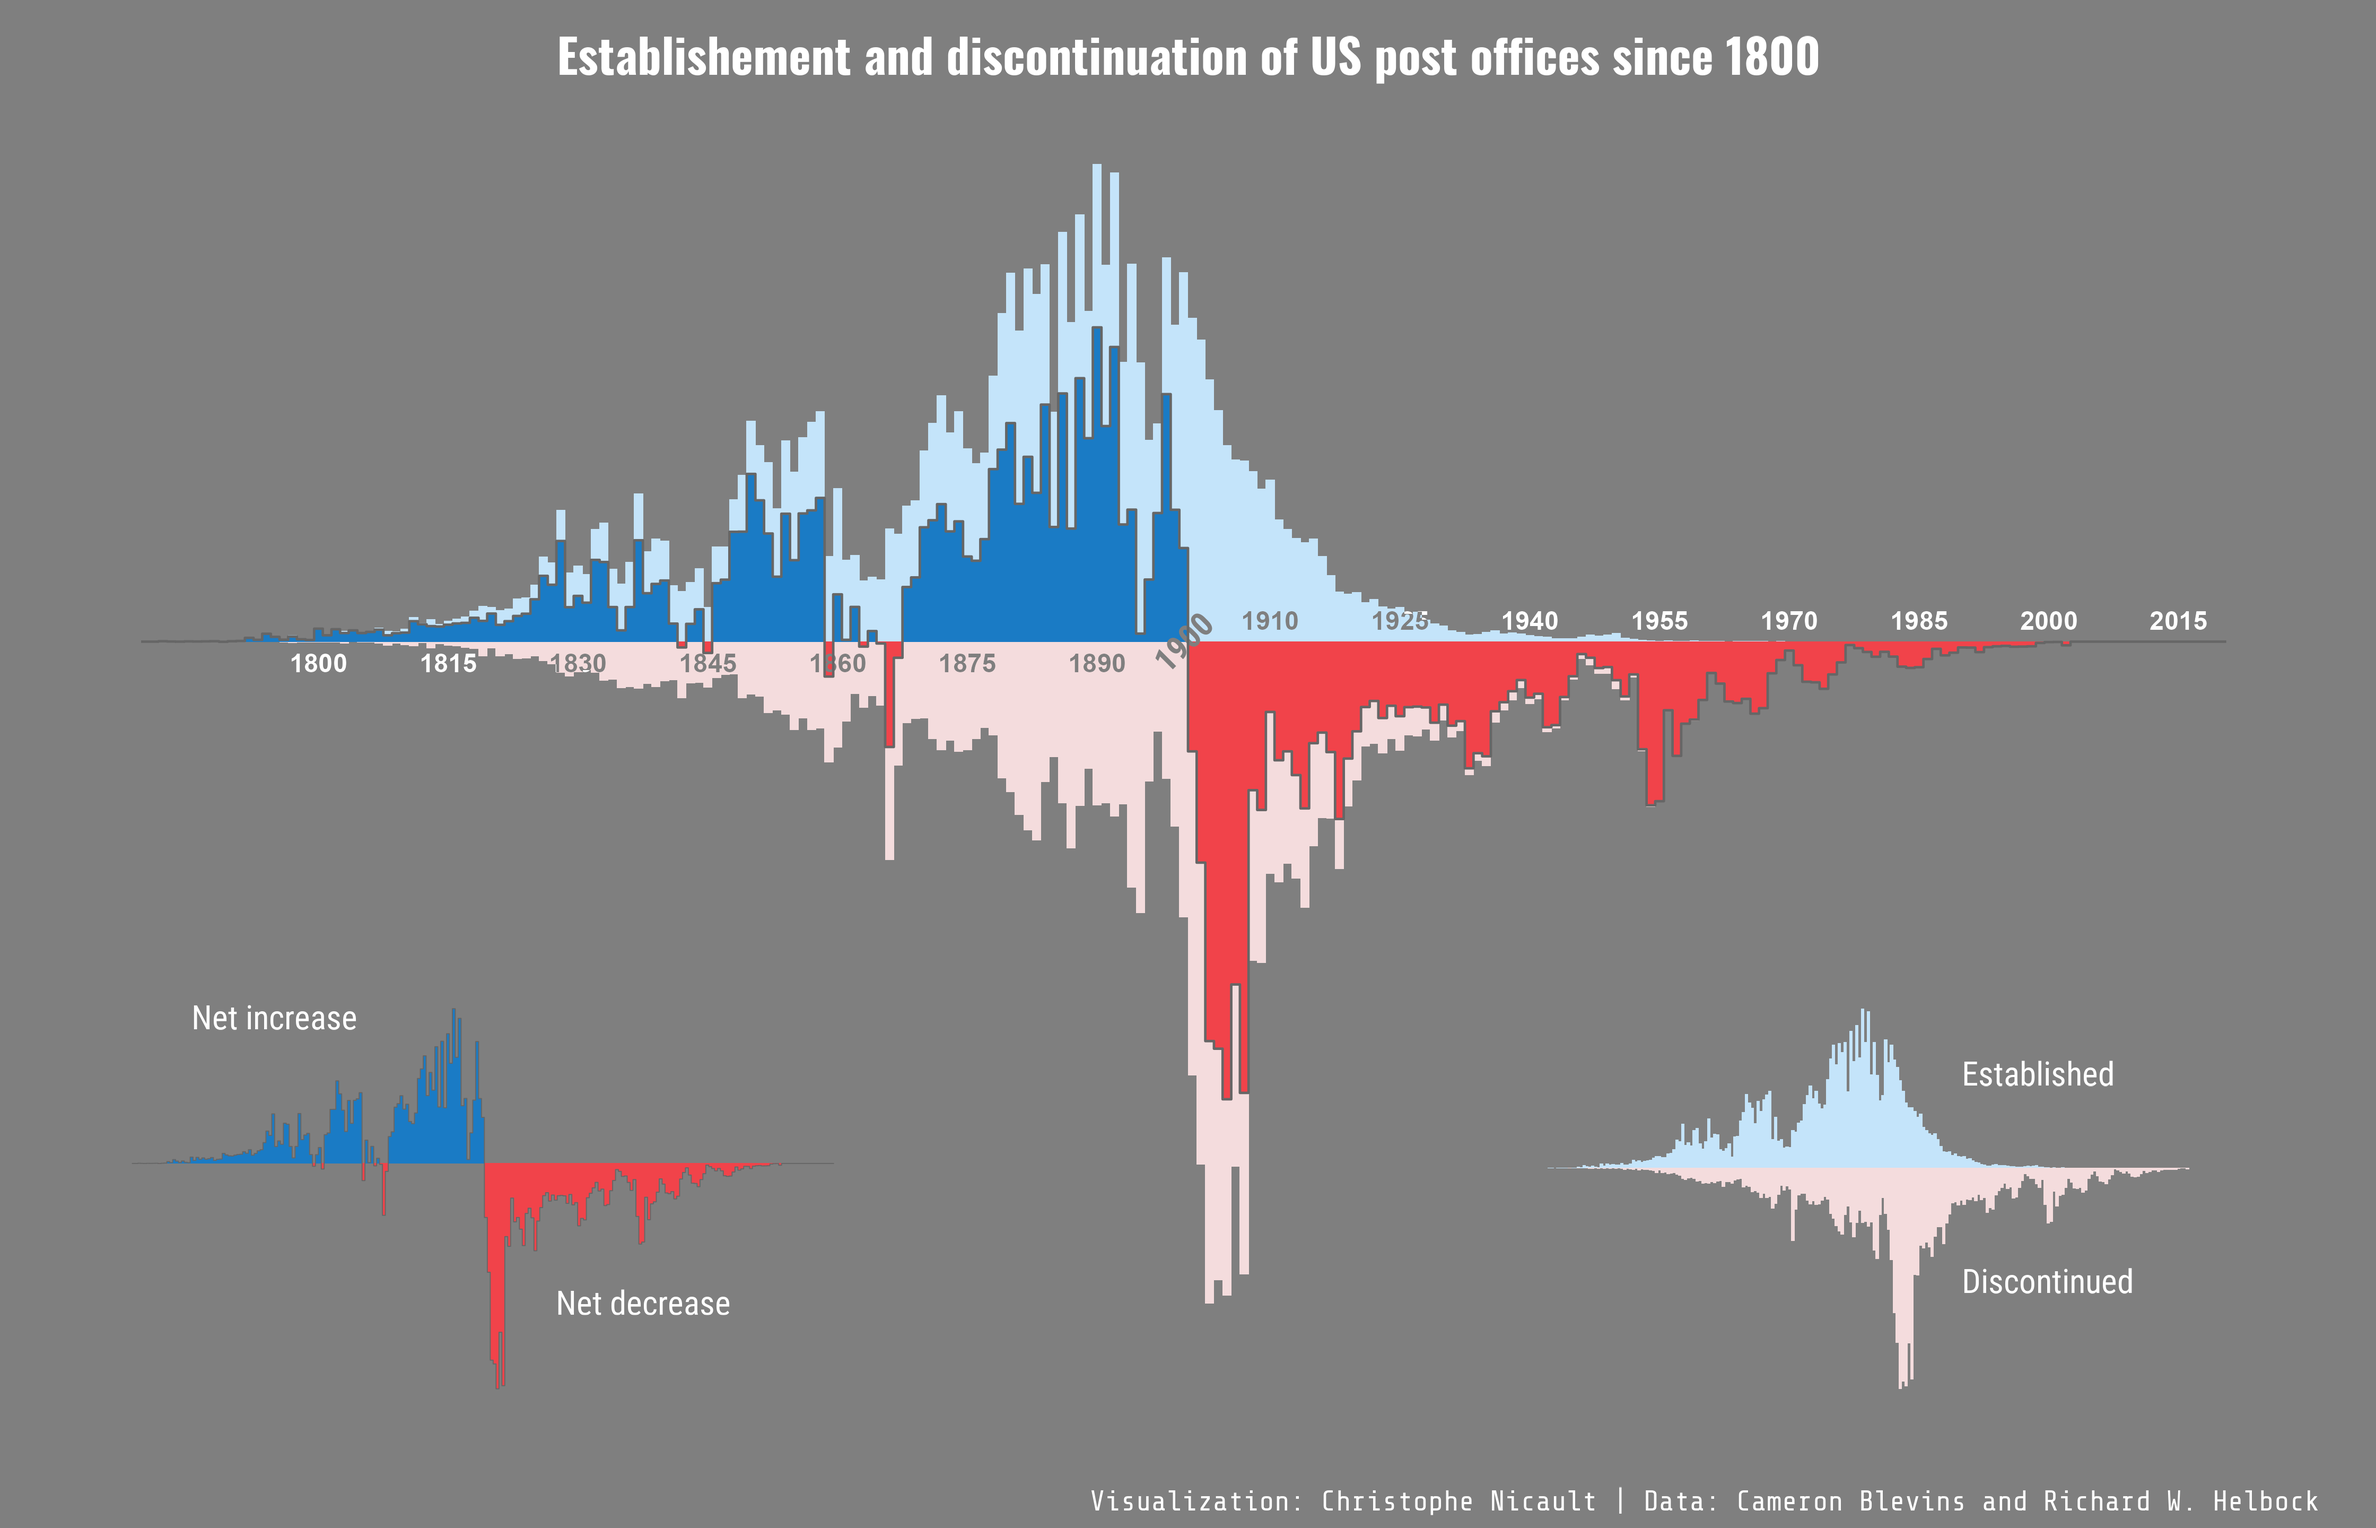
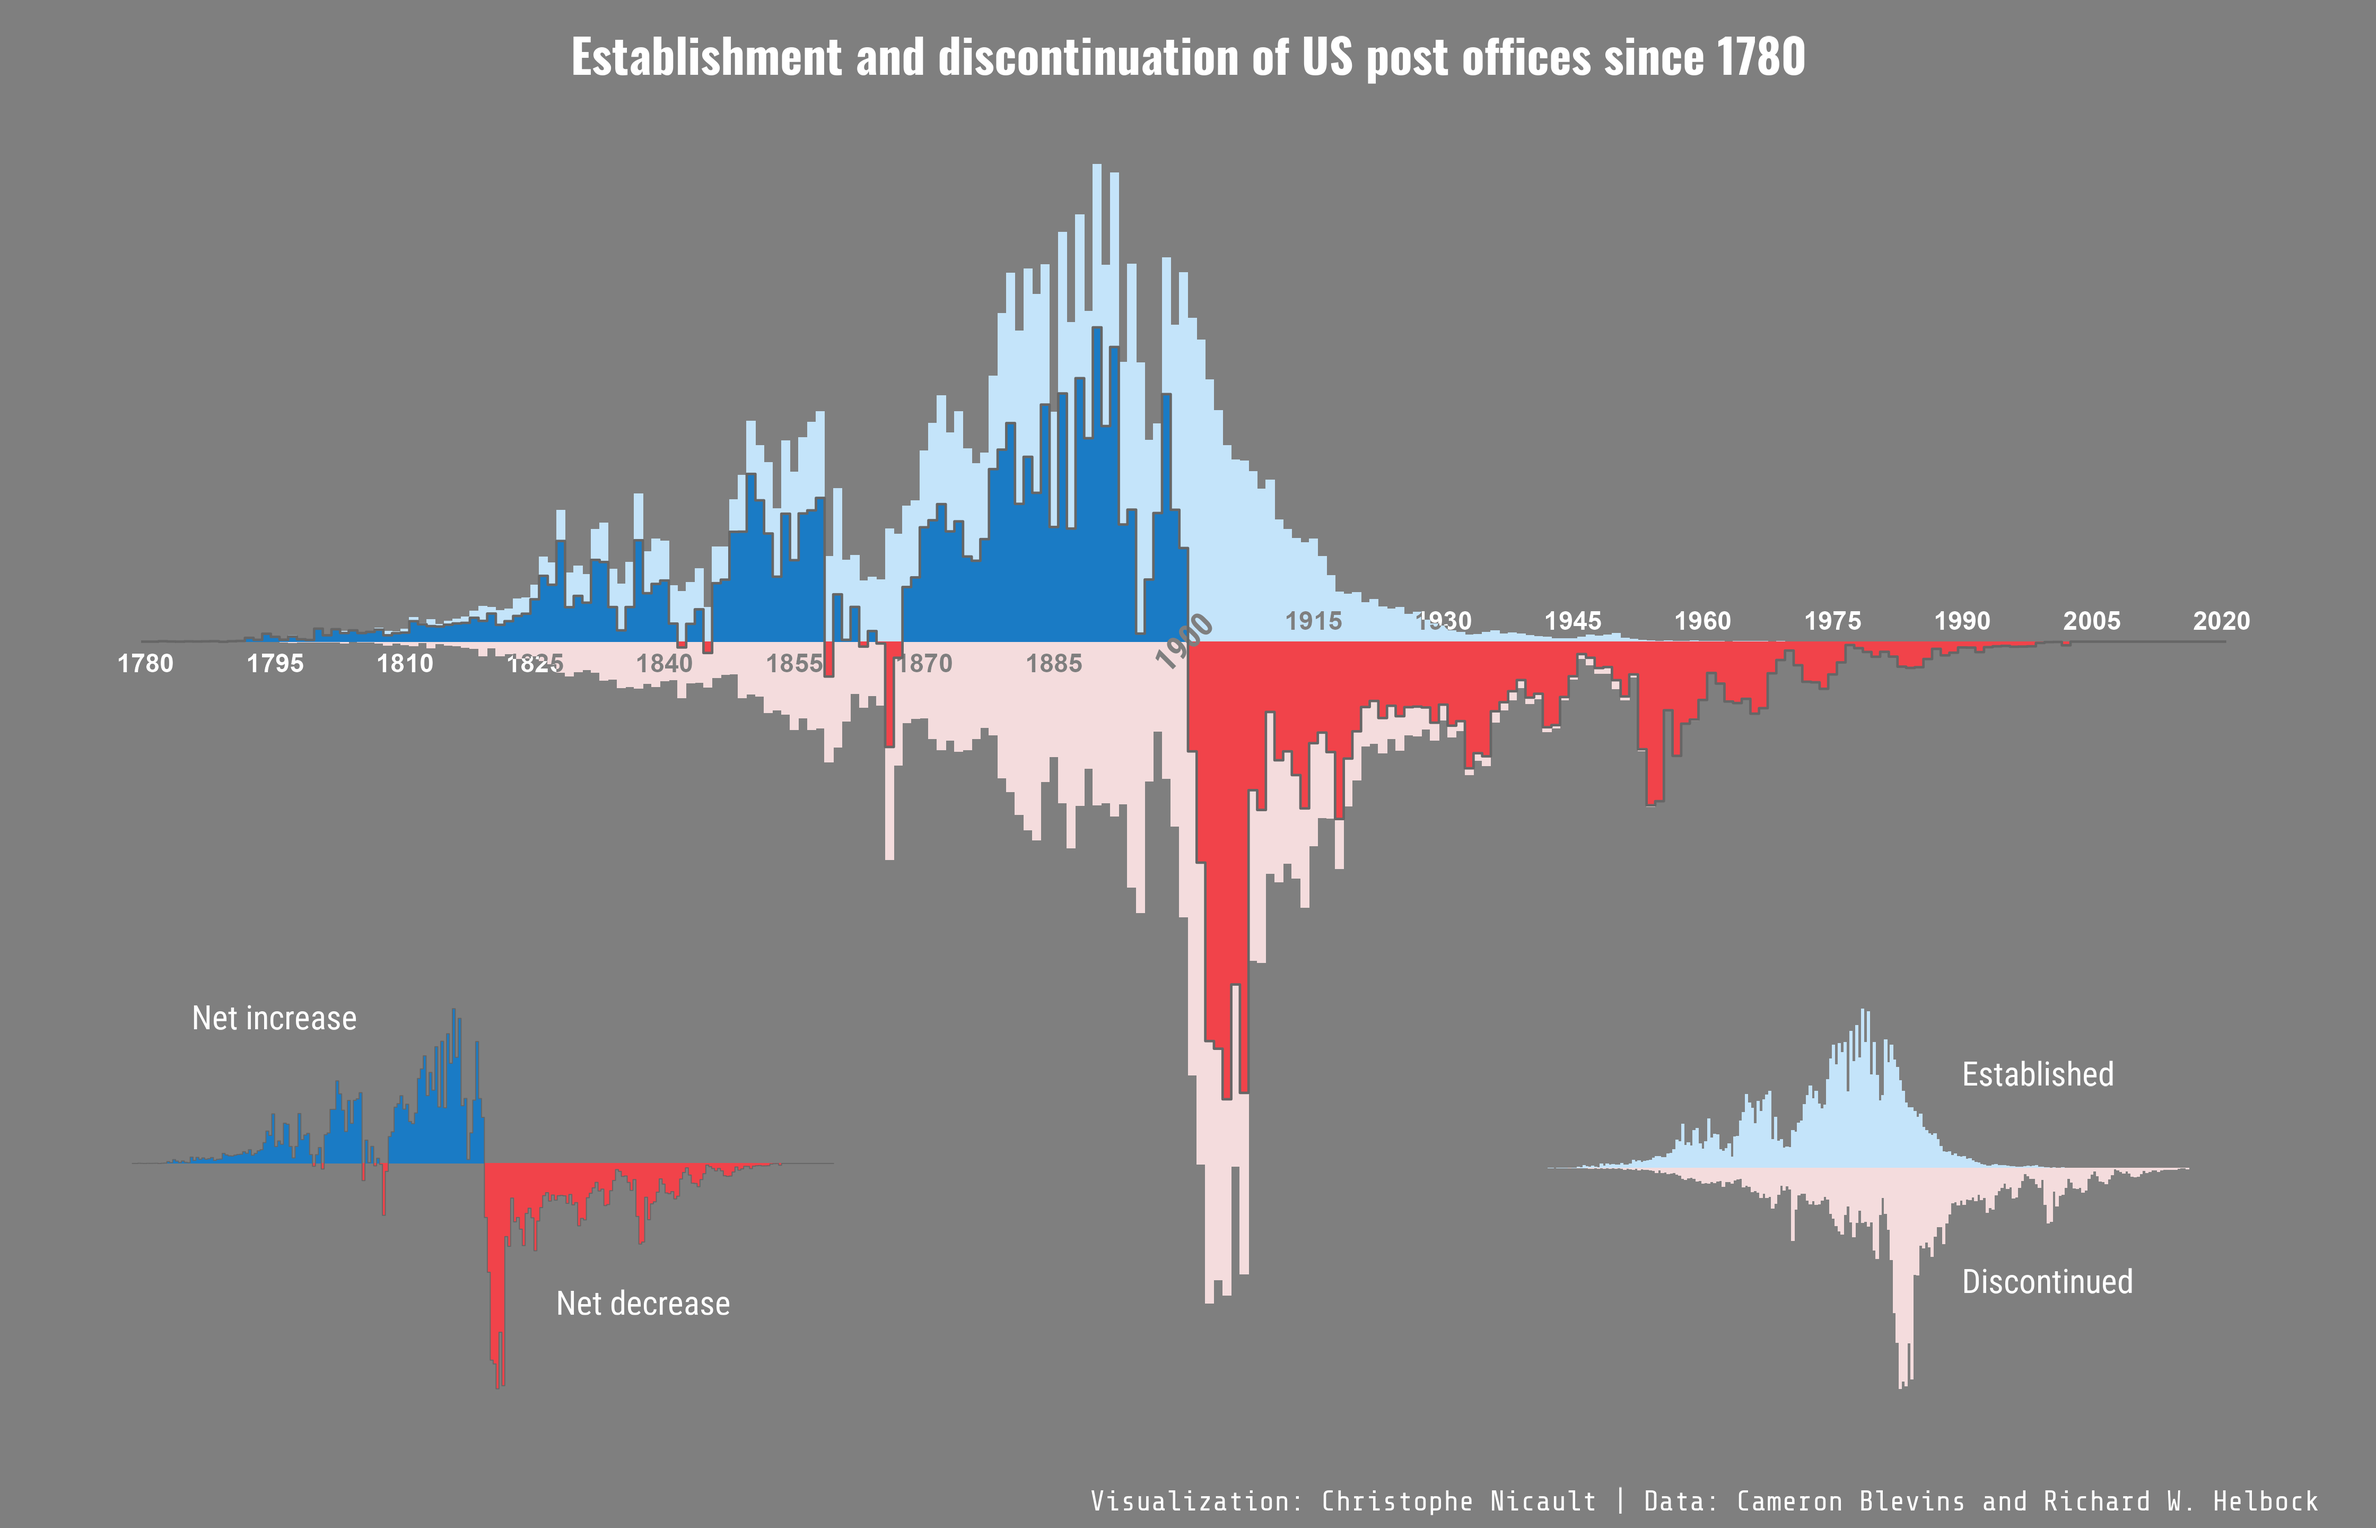
Typo and change the x-axis breaks

diff --git a/2021/README.md b/2021/README.md
@@ -10,9 +10,9 @@ Evolution of the number of movies and TV shows on Netflix
 
 ## 2021 week 16 - US post offices
 
-Establishement and discontinuation of US post offices since 1800
+Establishment and discontinuation of US post offices since 1780
 
-![Establishement and discontinuation of US post offices since 1800](/2021/2021-16-post_offices/post_offices.png)
+![Establishment and discontinuation of US post offices since 1780](/2021/2021-16-post_offices/post_offices.png)
 
 ----
 

diff --git a/README.md b/README.md
@@ -10,9 +10,9 @@ Evolution of the number of movies and TV shows on Netflix
 
 ## 2021 week 16 - US post offices
 
-Establishement and discontinuation of US post offices since 1800
+Establishment and discontinuation of US post offices since 1780
 
-![Establishement and discontinuation of US post offices since 1800](/2021/2021-16-post_offices/post_offices.png)
+![Establishment and discontinuation of US post offices since 1780](/2021/2021-16-post_offices/post_offices.png)
 
 ----
 
